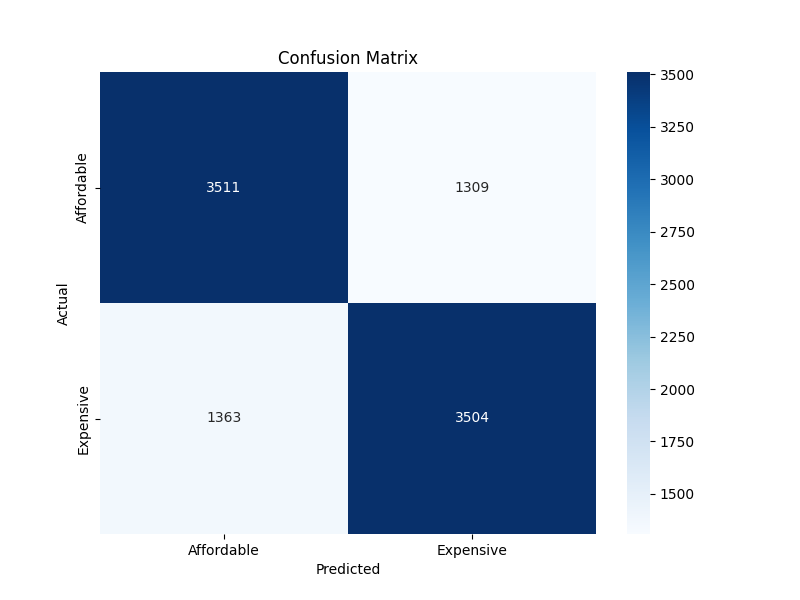
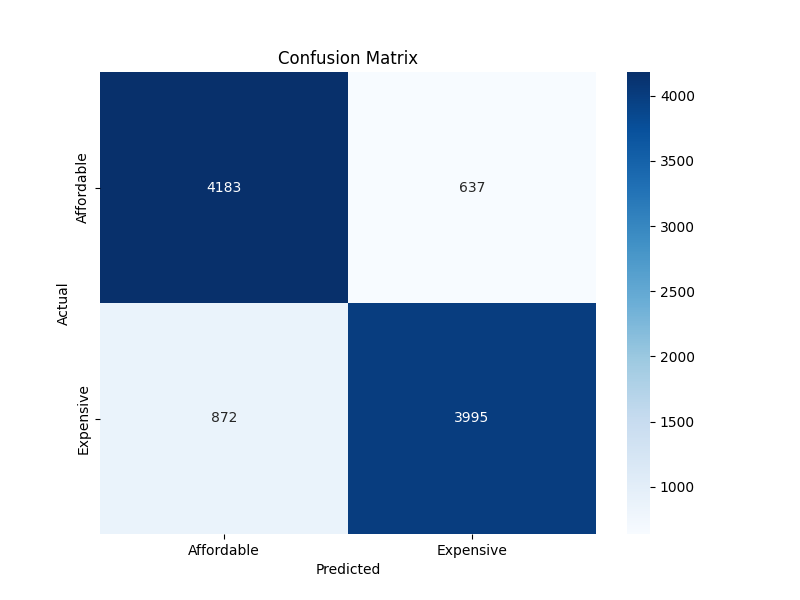
the second experement

diff --git a/train.py b/train.py
@@ -1,5 +1,4 @@
 import pandas as pd
-from sklearn.linear_model import LogisticRegression
 from sklearn.ensemble import RandomForestClassifier
 import joblib
 import os
@@ -10,9 +9,8 @@ def train():
     X_train = train_df.drop('is_expensive', axis=1)
     y_train = train_df['is_expensive']
 
-    # We start with Logistic Regression for the 'main' branch
-    # Note: In the next steps, we will change this for different branches
-    model = LogisticRegression(random_state=42)
+    # CHANGED: Using Random Forest instead of Logistic Regression
+    model = RandomForestClassifier(n_estimators=100, random_state=42)
     
     model.fit(X_train, y_train)
 
@@ -21,7 +19,7 @@ def train():
     
     # Save the model
     joblib.dump(model, 'models/model.joblib')
-    print("Training complete: models/model.joblib saved.")
+    print("Training complete: models/model.joblib saved (Random Forest).")
 
 if __name__ == "__main__":
     train()
